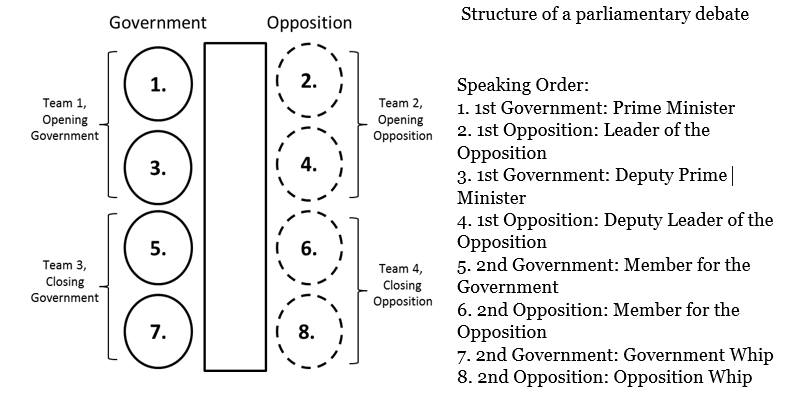
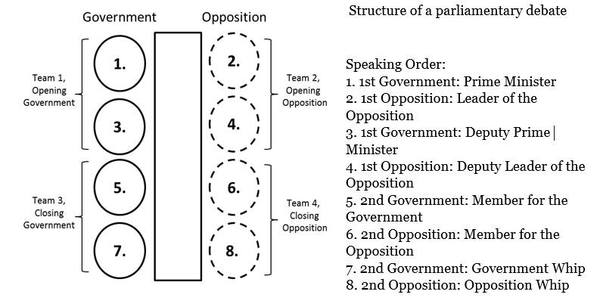
Updating pictures of several pages

diff --git a/british_parl.html b/british_parl.html
@@ -45,7 +45,7 @@
 						<li><a href="#">About Aalto Debate</a>
 							<ul>	
 								<li><a href="the_board.html">The board</a></li>
-								<li><a href="history.html">History</a></li>
+								<!--li><a href="history.html">History</a></li-->
 								<li><a href="results.html">Results</a></li>
 							</ul>
 						</li>
@@ -81,9 +81,7 @@
 			<br/>
 			<br/>
 			<script>
-			var random_images_array = ["debate1.jpg","debate2.jpg","debate3.jpg","debate4.jpg","debate5.jpg","debate6.jpg","debate7.png","debate8.png","debate9.png","debate10.jpg","debate11.jpg","debate12.jpg","debate13.jpg","debate14.jpg"];
-			var random_images_array_debating = ["image1.jpg","image3.jpg","image4.jpg","image5.jpg","image6.jpg","image7.jpg","image8.jpg","image9.jpg"];
-			var random_images_array_why_debate = ["image1.jpg","image2.jpg","image3.jpg","image4.jpg","image5.jpg","image6.jpg","image7.jpg","image8.jpg","image9.jpg"];
+			var random_images_array_british_parl = ["image1.jpg", "image2.jpg", "image3.jpg", "image4.jpg", "image5.jpg", "image6.jpg", "image7.jpg", "image8.jpg", "image9.jpg", "image10.jpg","image11.jpg", "image12.jpg"];
 			function getRandomImage(imgAr, path) {
 				path = path || 'images/'; // default path here
 				var num = Math.floor( Math.random() * imgAr.length );
@@ -95,28 +93,17 @@
 				<div class="container">
 				<center><h3>British parliamentary debate</h3></center>
 				<p><span class="image left">
-				<!--script type="text/javascript">getRandomImage(random_images_array);</script-->
-				<img src="images/debate_order.jpg"></img>
-				</span>
+				<img src="images/british-format.jpg"></img>
+				</span><br>
 In British Parliamentary debating participants take on the roles of government and opposition ministers arguing over a proposed motion by the government. The debates take place with 4 teams of two, with two teams on the government bench and two teams on the opposition bench. All the teams are competing against each other, even when debating for the same side, seeking to make the largest contribution and win the debate for their team. Debates require coordinating arguments with a partner and are won by teams, not individuals.
-<br/><br/>
-
-<b>Structure of a parliamentary debate</b><br/>
- Speaking Order is shown in the figure on the side.
-<!--1. 1st Government: Prime Minister
-2. 1st Opposition: Leader of the
-Opposition
-3. 1st Government: Deputy Prime
-Minister
-4. 1st Opposition: Deputy Leader of the
-Opposition
-5. 2nd Government: Member for the
-Government
-6. 2nd Opposition: Member for the
-Opposition
-7. 2nd Government: Government Whip
-8. 2nd Opposition: Opposition Whip -->
-
+<br>
+				</p>
+				
+				<p><span class="image right">
+				<script type="text/javascript">getRandomImage(random_images_array_british_parl,'images/british_parl/');</script>
+				</span>
+<br><b>Structure of a parliamentary debate</b><br/>
+Speaking Order is shown in the figure above.
 Debaters are given their positions (Opening Government, Opening Opposition, Closing Government, and Closing Opposition) and the motion 15 minutes before the start of the debate. During preparation time no electronics may be used, however debates are rarely won by throwing facts out. Rather, they are won through the explanation of facts and the logic or mechanism that impacts the debate. In a debate, a team must maintain relevance throughout by choosing their arguments based on the clashing points between the teams, knocking down the other side’s arguments and sticking to their viewpoint of the case. During the speeches the adversary side can offer brief questions or statements, called points of information. Debates are won through logical links of assertions, induction and deduction, as well as the modes of persuasion Ethos, Pathos and Logos.
 				</p>
 

diff --git a/special_events.html b/special_events.html
@@ -45,7 +45,7 @@
 						<li><a href="#">About Aalto Debate</a>
 							<ul>	
 								<li><a href="the_board.html">The board</a></li>
-								<li><a href="history.html">History</a></li>
+								<!--li><a href="history.html">History</a></li-->
 								<li><a href="results.html">Results</a></li>
 							</ul>
 						</li>
@@ -80,10 +80,8 @@
 			<br/>
 			<br/>
 			<script>
-			var random_images_array = ["debate1.jpg","debate2.jpg","debate3.jpg","debate4.jpg","debate5.jpg","debate6.jpg","debate7.png","debate8.png","debate9.png","debate10.jpg","debate11.jpg","debate12.jpg","debate13.jpg","debate14.jpg"];
-			var random_images_array_debating = ["image10.jpg","image1.jpg","image3.jpg","image4.jpg","image5.jpg","image6.jpg","image7.jpg","image8.jpg","image9.jpg","image11.jpg","image12.jpg"];
-			var random_images_array_socials = ["image10.jpg","image12.jpg","image14.jpg","image1.jpg","image3.jpg","image5.jpg","image7.jpg","image9.jpg","image11.jpg","image13.jpg","image15.jpg","image2.jpg","image4.jpg","image6.jpg","image8.jpg"];
-			var random_images_array_tournaments = ["image1.jpg","image2.jpg","image3.jpg","image4.jpg","image5.jpg","image6.jpg","image7.jpg","image8.jpg"];
+			var random_images_array_special_events1 = ["image1.jpg","image2.jpg","image3.jpg","image4.jpg","image5.jpg", "image6.jpg","image7.jpg","image8.jpg", "image9.jpg"];
+			var random_images_array_special_events2 = ["image10.jpg","image11.jpg","image12.jpg","image13.jpg","image14.jpg", "image15.jpg","image16.jpg"];
 			function getRandomImage(imgAr, path) {
 				path = path || 'images/'; // default path here
 				var num = Math.floor( Math.random() * imgAr.length );
@@ -95,7 +93,7 @@
 				<div class="container">
 				<center><h3>Special events</h3></center>
 				<p><span class="image left">
-				<script type="text/javascript">getRandomImage(random_images_array_debating,'images/debating/');</script>
+				<script type="text/javascript">getRandomImage(random_images_array_special_events1,'images/special_events/');</script>
 				</span>
 The society organizes lots of events to promote debating and teach skills related to debating. These include: <br><br>
 
@@ -104,7 +102,7 @@ The society organizes lots of events to promote debating and teach skills relate
 <b>Show debates</b><br> Show debates are organized events that are open to the public to promote debating. They cover topics related to current events or other topics that are of interest to the general public and the Aalto Debating Society and the Helsinki Debating Society typically host these jointly. The events usually involve an introductory speech on the topic by recognized experts in the field and followed by a debate between experienced debaters from both societies. After the debate we invite the audience to ask questions of the experts and participate in a discussion. At these events we aim to inspire participants to become interested in debate and engage in discussion on current events. <br><br>
 				</p>
 				<p><span class="image right">
-				<script type="text/javascript">getRandomImage(random_images_array_debating,'images/debating/');</script>
+				<script type="text/javascript">getRandomImage(random_images_array_special_events2,'images/special_events/');</script>
 				</span>
 <b>Guest speakers</b><br> At show debates or workshops, visiting experts, professors, or experienced debaters from other societies are often asked to participate or teach to bring a fresh, outside perspective. <br><br>
 

diff --git a/tournaments.html b/tournaments.html
@@ -45,7 +45,7 @@
 						<li><a href="#">About Aalto Debate</a>
 							<ul>	
 								<li><a href="the_board.html">The board</a></li>
-								<li><a href="history.html">History</a></li>
+								<!--li><a href="history.html">History</a></li-->
 								<li><a href="results.html">Results</a></li>
 							</ul>
 						</li>
@@ -80,10 +80,7 @@
 			<br/>
 			<br/>
 			<script>
-			var random_images_array = ["debate1.jpg","debate2.jpg","debate3.jpg","debate4.jpg","debate5.jpg","debate6.jpg","debate7.png","debate8.png","debate9.png","debate10.jpg","debate11.jpg","debate12.jpg","debate13.jpg","debate14.jpg"];
-			var random_images_array_debating = ["image10.jpg","image1.jpg","image3.jpg","image4.jpg","image5.jpg","image6.jpg","image7.jpg","image8.jpg","image9.jpg","image11.jpg","image12.jpg"];
-			var random_images_array_socials = ["image10.jpg","image12.jpg","image14.jpg","image1.jpg","image3.jpg","image5.jpg","image7.jpg","image9.jpg","image11.jpg","image13.jpg","image15.jpg","image2.jpg","image4.jpg","image6.jpg","image8.jpg"];
-			var random_images_array_tournaments = ["image1.jpg","image2.jpg","image3.jpg","image4.jpg","image5.jpg","image6.jpg","image7.jpg","image8.jpg"];
+			var random_images_array_tournaments = ["image1.jpg","image2.jpg","image3.jpg","image4.jpg","image5.jpg","image6.jpg","image7.jpg","image8.jpg", "image9.jpg", "image10.jpg", "image11.jpg","image12.jpg","image13.jpg","image14.jpg","image15.jpg","image16.jpg","image17.jpg","image18.jpg", "image19.jpg", "image20.jpg", "image21.jpg", "image22.jpg","image23.jpg","image24.jpg","image25.jpg","image26.jpg","image27.jpg","image28.jpg", "image29.jpg", "image30.jpg", "image31.jpg","image32.jpg","image33.jpg","image34.jpg","image35.jpg","image36.jpg","image37.jpg","image38.jpg", "image39.jpg", "image40.jpg", "image41.jpg", "image42.jpg","image43.jpg","image44.jpg","image45.jpg", "image46.jpg","image47.jpg","image48.jpg", "image49.jpg", "image50.jpg", "image51.jpg", "image52.jpg", "image53.jpg"];
 			function getRandomImage(imgAr, path) {
 				path = path || 'images/'; // default path here
 				var num = Math.floor( Math.random() * imgAr.length );
@@ -95,7 +92,7 @@
 				<div class="container">
 				<center><h3>Tournaments</h3></center>
 				<p><span class="image left">
-				<script type="text/javascript">getRandomImage(random_images_array_debating,'images/debating/');</script>
+				<script type="text/javascript">getRandomImage(random_images_array_tournaments,'images/tournaments');</script>
 				</span>
 					Debating tournaments take place all around the world, usually hosted by the debating societies/clubs/unions of local Universities. These competitions allow you to test your debating mettle against debaters from all over the world. Society members have the opportunity to attend tournaments that are aimed towards different debating skill levels from novice to advanced. Tournaments usually take place over a weekend, with days dedicated to debating and evening socials where you can get to know debaters from all over Europe.	
 				</p>

diff --git a/socials.html b/socials.html
@@ -45,7 +45,7 @@
 						<li><a href="#">About Aalto Debate</a>
 							<ul>	
 								<li><a href="the_board.html">The board</a></li>
-								<li><a href="history.html">History</a></li>
+								<!--li><a href="history.html">History</a></li-->
 								<li><a href="results.html">Results</a></li>
 							</ul>
 						</li>
@@ -80,10 +80,7 @@
 			<br/>
 			<br/>
 			<script>
-			var random_images_array = ["debate1.jpg","debate2.jpg","debate3.jpg","debate4.jpg","debate5.jpg","debate6.jpg","debate7.png","debate8.png","debate9.png","debate10.jpg","debate11.jpg","debate12.jpg","debate13.jpg","debate14.jpg"];
-			var random_images_array_debating = ["image10.jpg","image1.jpg","image3.jpg","image4.jpg","image5.jpg","image6.jpg","image7.jpg","image8.jpg","image9.jpg","image11.jpg","image12.jpg"];
-			var random_images_array_socials = ["image10.jpg","image12.jpg","image14.jpg","image1.jpg","image3.jpg","image5.jpg","image7.jpg","image9.jpg","image11.jpg","image13.jpg","image15.jpg","image2.jpg","image4.jpg","image6.jpg","image8.jpg"];
-			var random_images_array_tournaments = ["image1.jpg","image2.jpg","image3.jpg","image4.jpg","image5.jpg","image6.jpg","image7.jpg","image8.jpg"];
+			var random_images_array_socials = ["image1.jpg","image2.jpg","image3.jpg","image4.jpg","image5.jpg","image6.jpg","image7.jpg","image8.jpg", "image9.jpg", "image10.jpg", "image11.jpg","image12.jpg","image13.jpg","image14.jpg","image15.jpg","image16.jpg","image17.jpg","image18.jpg", "image19.jpg", "image20.jpg", "image21.jpg"];
 			function getRandomImage(imgAr, path) {
 				path = path || 'images/'; // default path here
 				var num = Math.floor( Math.random() * imgAr.length );
@@ -95,7 +92,7 @@
 				<div class="container">
 				<center><h3>Socials</h3></center>
 				<p><span class="image left">
-				<script type="text/javascript">getRandomImage(random_images_array_debating,'images/debating/');</script>
+				<script type="text/javascript">getRandomImage(random_images_array_socials,'images/socials/');</script>
 				</span>
 					Work hard, play hard. Socials are an important part of debate tournaments and the society activities. Debaters often form quick and lasting friendships at society weekly practices, events, socials and tournaments. We may be biased, but in our experience debaters tend to be witty and interesting people! Debaters usually go out to socialize, discuss and relax together after debate practices. The society also organizes dinners, game nights, sauna evenings, debate or current affairs related TV or movie viewing nights for its members from all different backgrounds and degree programs to come together to talk and have fun. Tournament socials allow you to expand your social circles even further and make lasting connections with debaters from other countries.	
 				</p>

diff --git a/highschools.html b/highschools.html
@@ -45,7 +45,7 @@
 						<li><a href="#">About Aalto Debate</a>
 							<ul>	
 								<li><a href="the_board.html">The board</a></li>
-								<li><a href="history.html">History</a></li>
+								<!--li><a href="history.html">History</a></li-->
 								<li><a href="results.html">Results</a></li>
 							</ul>
 						</li>
@@ -81,8 +81,7 @@
 			<br/>
 			<br/>
 			<script>
-			var random_images_array = ["debate1.jpg","debate2.jpg","debate3.jpg","debate4.jpg","debate5.jpg","debate6.jpg","debate7.png","debate8.png","debate9.png","debate10.jpg","debate11.jpg","debate12.jpg","debate13.jpg","debate14.jpg"];
-			var random_images_array_highschool = ["image1.jpg","image2.jpg","image3.jpg","image4.jpg","image5.jpg","image6.jpg","image7.jpg"];
+			var random_images_array_highschool = ["image1.jpg","image2.jpg","image3.jpg","image4.jpg","image5.jpg","image6.jpg","image7.jpg", "image8.jpg"];
 			function getRandomImage(imgAr, path) {
 				path = path || 'images/'; // default path here
 				var num = Math.floor( Math.random() * imgAr.length );
@@ -99,9 +98,7 @@
 Our mission is not only to advance university-level debating, but also to promote debating culture throughout Finland. This is why ADS cooperates with Finnish high schools, particularly in the Helsinki Greater Metropolitan area. High schoolers are welcome to  check out our weekly debate practices to learn what debating in university will be like and to improve their rhetorical skills . Some high schoolers even join the society and go to tournaments to get a running start to British Parliamentary debating. Plenty of university level debating tournaments in Finland take place over a weekend, thus making it easy for a high schooler to fit into their schedule.
 				</p>
 
-				<!--p><span class="image right">
-				<script type="text/javascript">getRandomImage(random_images_array);</script>
-				</span><br/-->ADS has been proud to help out in the organizing of <a href="http://debating.finnish-britishsocieties.com" target="_blank">Finnish National High School Championships</a> by providing judges
+				ADS has been proud to help out in the organizing of <a href="http://debating.finnish-britishsocieties.com" target="_blank">Finnish National High School Championships</a> by providing judges
 and help with tabbing. 
 The society also provides coaching and workshops for high schoolers. If you run a high school debate club  or are a high school debating teacher, feel free to <a href="contact.html">contact us</a> for collaboration. Our debates are very newcomer friendly and we are very happy to have high schoolers in our society. As debating is a fun way to improve your critical thinking and public speaking skills, our stance is – the sooner you start debating the better!
 

diff --git a/why_debate.html b/why_debate.html
@@ -45,7 +45,7 @@
 						<li><a href="#">About Aalto Debate</a>
 							<ul>	
 								<li><a href="the_board.html">The board</a></li>
-								<li><a href="history.html">History</a></li>
+								<!--li><a href="history.html">History</a></li-->
 								<li><a href="results.html">Results</a></li>
 							</ul>
 						</li>
@@ -81,9 +81,7 @@
 			<br/>
 			<br/>
 			<script>
-			var random_images_array = ["debate1.jpg","debate2.jpg","debate3.jpg","debate4.jpg","debate5.jpg","debate6.jpg","debate7.png","debate8.png","debate9.png","debate10.jpg","debate11.jpg","debate12.jpg","debate13.jpg","debate14.jpg"];
-			var random_images_array_debating = ["image1.jpg","image3.jpg","image4.jpg","image5.jpg","image6.jpg","image7.jpg","image8.jpg","image9.jpg"];
-			var random_images_array_why_debate = ["image1.jpg","image2.jpg","image3.jpg","image4.jpg","image5.jpg","image6.jpg","image7.jpg","image8.jpg","image9.jpg"];
+			var random_images_array_why_debate = ["image1.jpg","image2.jpg","image3.jpg","image4.jpg","image5.jpg","image6.jpg","image7.jpg","image8.jpg","image9.jpg", "image10.jpg", "image11.jpg","image12.jpg","image13.jpg","image14.jpg","image15.jpg","image16.jpg","image17.jpg","image18.jpg","image19.jpg", "image20.jpg", "image21.jpg","image22.jpg","image23.jpg","image24.jpg"];
 			function getRandomImage(imgAr, path) {
 				path = path || 'images/'; // default path here
 				var num = Math.floor( Math.random() * imgAr.length );
@@ -95,7 +93,7 @@
 				<div class="container">
 				<center><h3>Debating</h3></center>
 				<p><span class="image left">
-				<script type="text/javascript">getRandomImage(random_images_array_debating,'images/why_debate/');</script>
+				<script type="text/javascript">getRandomImage(random_images_array_why_debate,'images/why_debate/');</script>
 				</span>
 		Debating is about engaging through argument and clashing over ideas. It requires critical thinking and the ability to lay out a case clearly in order to convince others of your point of view. This requires analysing the topic, understanding its impacts and the burdens that need to be met in order to justify something. Often, however, there isn’t one correct answer. We see debates every day in academia, politics and between friends over a cup of coffee or around a bar room table. <br/>
 

diff --git a/weekly_debates.html b/weekly_debates.html
@@ -45,7 +45,7 @@
 						<li><a href="#">About Aalto Debate</a>
 							<ul>	
 								<li><a href="the_board.html">The board</a></li>
-								<li><a href="history.html">History</a></li>
+								<!--li><a href="history.html">History</a></li-->
 								<li><a href="results.html">Results</a></li>
 							</ul>
 						</li>
@@ -80,10 +80,7 @@
 			<br/>
 			<br/>
 			<script>
-			var random_images_array = ["debate1.jpg","debate2.jpg","debate3.jpg","debate4.jpg","debate5.jpg","debate6.jpg","debate7.png","debate8.png","debate9.png","debate10.jpg","debate11.jpg","debate12.jpg","debate13.jpg","debate14.jpg"];
-			var random_images_array_debating = ["image10.jpg","image1.jpg","image3.jpg","image4.jpg","image5.jpg","image6.jpg","image7.jpg","image8.jpg","image9.jpg","image11.jpg","image12.jpg"];
-			var random_images_array_socials = ["image10.jpg","image12.jpg","image14.jpg","image1.jpg","image3.jpg","image5.jpg","image7.jpg","image9.jpg","image11.jpg","image13.jpg","image15.jpg","image2.jpg","image4.jpg","image6.jpg","image8.jpg"];
-			var random_images_array_tournaments = ["image1.jpg","image2.jpg","image3.jpg","image4.jpg","image5.jpg","image6.jpg","image7.jpg","image8.jpg"];
+			var random_images_array_weekly_debates = ["image1.jpg","image2.jpg","image3.jpg","image4.jpg","image5.jpg","image6.jpg","image7.jpg","image8.jpg", "image9.jpg"];
 			function getRandomImage(imgAr, path) {
 				path = path || 'images/'; // default path here
 				var num = Math.floor( Math.random() * imgAr.length );
@@ -95,7 +92,7 @@
 				<div class="container">
 				<center><h3>Weekly debates</h3></center>
 				<p><span class="image left">
-				<script type="text/javascript">getRandomImage(random_images_array_debating,'images/debating/');</script>
+				<script type="text/javascript">getRandomImage(random_images_array_weekly_debates,'images/weekly_debates/');</script>
 				</span>
 					Everyone is welcome to visit our weekly practices and learn what debate is all about!<br><br>
 

diff --git a/board.html b/board.html
@@ -1,0 +1,58 @@
+<!DOCTYPE HTML>
+<!--
+	Landed by HTML5 UP
+	html5up.net | @n33co
+	Free for personal and commercial use under the CCA 3.0 license (html5up.net/license)
+-->
+<html>
+	<head>
+		<title>ADS- The board</title>
+		<meta http-equiv="content-type" content="text/html; charset=utf-8" />
+		<meta name="description" content="" />
+		<meta name="keywords" content="" />
+		<!--[if lte IE 8]><script src="css/ie/html5shiv.js"></script><![endif]-->
+		<script src="js/jquery.min.js"></script>
+		<script src="js/jquery.scrolly.min.js"></script>
+		<script src="js/jquery.dropotron.min.js"></script>
+		<script src="js/jquery.scrollex.min.js"></script>
+		<script src="js/skel.min.js"></script>
+		<script src="js/skel-layers.min.js"></script>
+		<script src="js/init.js"></script>
+		<script src="js/jquery.scrollToTop.min.js"></script>
+		<noscript>
+			<link rel="stylesheet" href="css/skel.css" />
+			<link rel="stylesheet" href="css/style.css" />
+			<link rel="stylesheet" href="css/style-xlarge.css" />
+		</noscript>
+		<!--[if lte IE 9]><link rel="stylesheet" href="css/ie/v9.css" /><![endif]-->
+		<!--[if lte IE 8]><link rel="stylesheet" href="css/ie/v8.css" /><![endif]-->
+		<script type="text/javascript">
+		$(function() {
+			$("#toTop").scrollToTop(1000);
+		});
+		</script>
+	</head>
+	<body class="landing">
+	
+		<?php include "menu_bar.html";?>
+
+		<center>
+			<h3>The Board</h3><br><br>
+			<b>President</b><br>
+			Alf Parvi <br><br>
+			<b>Vice President</b><br>
+			Markus Myllymäki <br><br>
+			<b>Treasurer</b><br>
+			Joona Suhonen <br><br>
+			<b>Board Members</b><br>
+			Julia Beltrão <br>
+			Lilian Luo <br>
+			Sara Halonen <br>
+			Sudhanshu Nautiyal <br>
+			Suvi Häärä <br>
+		</center>
+
+		<?php include "footer.html";?>
+
+	</body>
+</html>

diff --git a/the_board.html b/the_board.html
@@ -6,7 +6,7 @@
 -->
 <html>
 	<head>
-		<title>ADS- Helsinki Open</title>
+		<title>ADS- The board</title>
 		<meta http-equiv="content-type" content="text/html; charset=utf-8" />
 		<meta name="description" content="" />
 		<meta name="keywords" content="" />
@@ -45,7 +45,7 @@
 						<li><a href="#">About Aalto Debate</a>
 							<ul>	
 								<li><a href="the_board.html">The board</a></li>
-								<li><a href="history.html">History</a></li>
+								<!--li><a href="history.html">History</a></li-->
 								<li><a href="results.html">Results</a></li>
 							</ul>
 						</li>

diff --git a/contact.html b/contact.html
@@ -40,7 +40,7 @@
 						<li><a href="#">About Aalto Debate</a>
 							<ul>	
 								<li><a href="the_board.html">The board</a></li>
-								<li><a href="history.html">History</a></li>
+								<!--li><a href="history.html">History</a></li-->
 								<li><a href="results.html">Results</a></li>
 							</ul>
 						</li>

diff --git a/helsinki_open.html b/helsinki_open.html
@@ -45,7 +45,7 @@
 						<li><a href="#">About Aalto Debate</a>
 							<ul>	
 								<li><a href="the_board.html">The board</a></li>
-								<li><a href="history.html">History</a></li>
+								<!--li><a href="history.html">History</a></li-->
 								<li><a href="results.html">Results</a></li>
 							</ul>
 						</li>

diff --git a/index.html b/index.html
@@ -55,7 +55,7 @@
 						<li><a href="#">About Aalto Debate</a>
 							<ul>	
 								<li><a href="the_board.html">The board</a></li>
-								<li><a href="history.html">History</a></li>
+								<!--li><a href="history.html">History</a></li-->
 								<li><a href="results.html">Results</a></li>
 							</ul>
 						</li>
